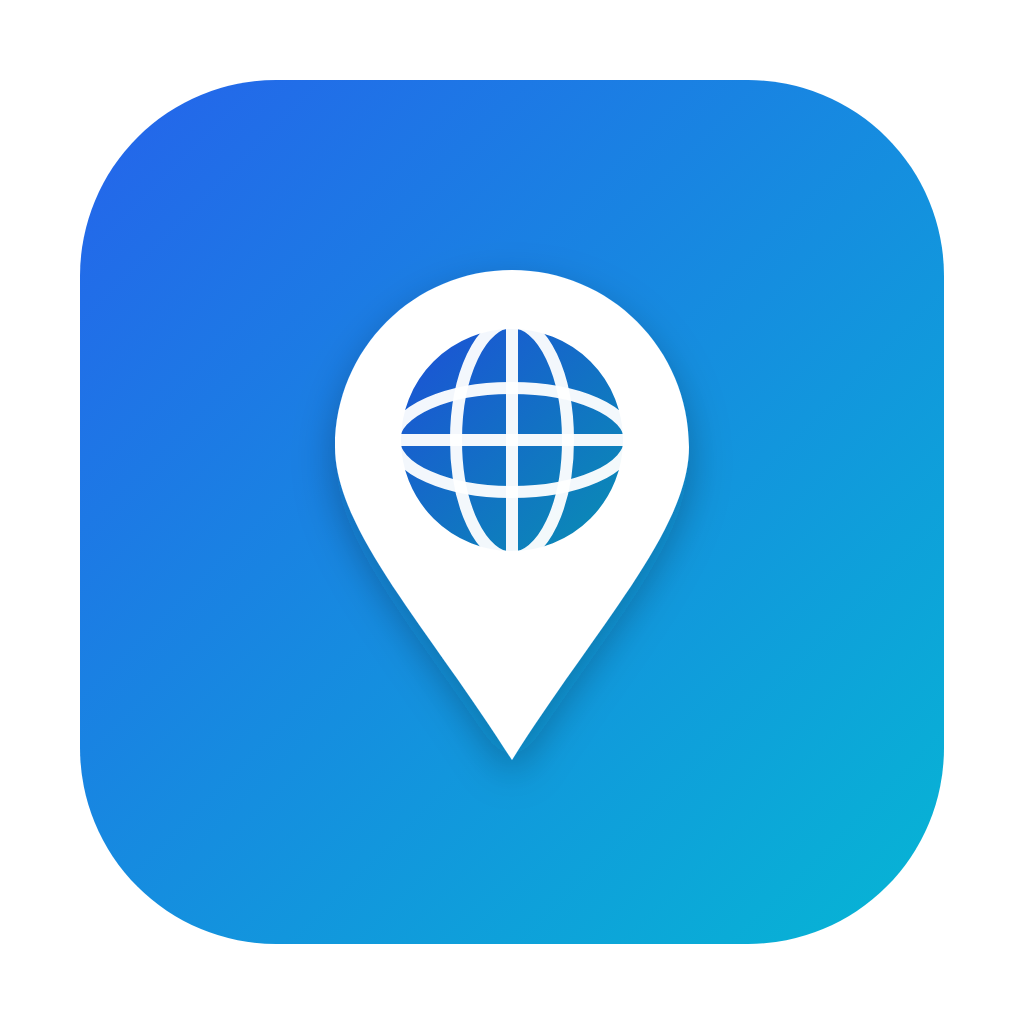
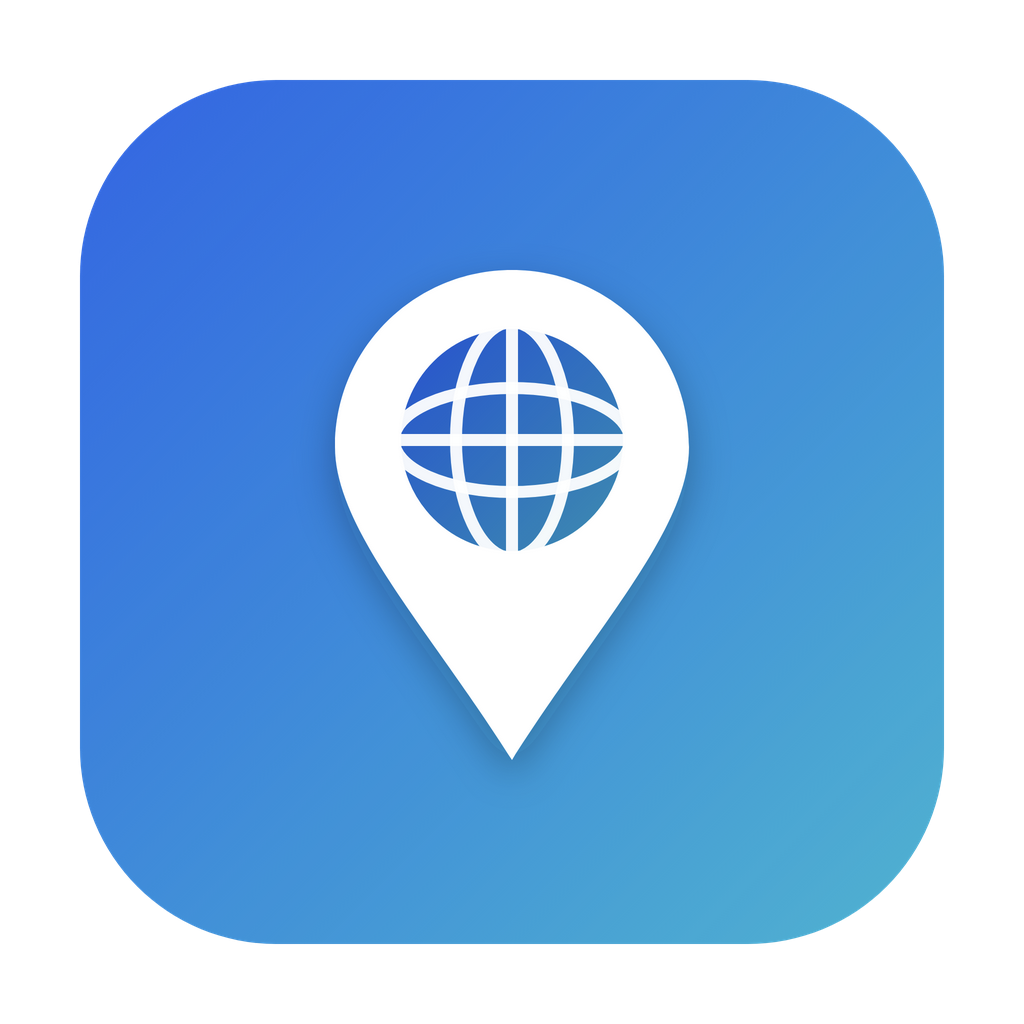
Release v1.1.4

diff --git a/render-png.js b/render-png.js
@@ -1,28 +1,85 @@
-// Rasterizes build/icon.svg to build/icon.png (1024x1024) using Electron's
-// Chromium renderer — no native image libraries required.
+// Generates the app icons and the macOS menu bar template icon.
 // Run with: npm run icons
-const { app, BrowserWindow } = require('electron');
+const { app, BrowserWindow, nativeImage } = require('electron');
 const path = require('path');
 const fs = require('fs');
+const { execFileSync } = require('child_process');
 
-const SIZE = 1024;
+const APP_SIZE = 1024;
 const buildDir = path.join(__dirname, 'build');
+const assetsDir = path.join(__dirname, 'assets');
 const svgPath = path.join(buildDir, 'icon.svg');
-const outPath = path.join(buildDir, 'icon.png');
+const appPngPath = path.join(buildDir, 'icon.png');
+const appIcnsPath = path.join(buildDir, 'icon.icns');
+
+const traySvg = `
+<svg width="36" height="36" viewBox="0 0 36 36" xmlns="http://www.w3.org/2000/svg">
+  <path fill="#000" d="M18 3.5c-6.4 0-11.6 5.1-11.6 11.5 0 5.4 5.8 11.5 11.6 19 5.8-7.5 11.6-13.6 11.6-19C29.6 8.6 24.4 3.5 18 3.5Zm0 16.8a5.3 5.3 0 1 1 0-10.6 5.3 5.3 0 0 1 0 10.6Z"/>
+</svg>`;
 
 app.disableHardwareAcceleration();
 
-app.whenReady().then(async () => {
-  const svg = fs.readFileSync(svgPath, 'utf8');
+function ensureDirs() {
+  fs.mkdirSync(buildDir, { recursive: true });
+  fs.mkdirSync(assetsDir, { recursive: true });
+}
+
+async function renderSvgToImage(win, svg, size) {
   const html =
     '<!doctype html><html><head><meta charset="utf-8"><style>' +
-    `*{margin:0;padding:0}html,body{width:${SIZE}px;height:${SIZE}px;` +
-    'background:transparent;overflow:hidden}svg{display:block}</style></head>' +
+    `*{margin:0;padding:0}html,body{width:${size}px;height:${size}px;` +
+    'background:transparent;overflow:hidden}svg{display:block;width:100%;height:100%}</style></head>' +
     `<body>${svg}</body></html>`;
 
+  win.setContentSize(size, size);
+  await win.loadURL('data:text/html;charset=utf-8,' + encodeURIComponent(html));
+  await new Promise((r) => setTimeout(r, 700));
+  const img = await win.webContents.capturePage();
+  return img.resize({ width: size, height: size });
+}
+
+function writePng(file, image) {
+  fs.writeFileSync(file, image.toPNG());
+}
+
+function createIcns(masterPng) {
+  if (process.platform !== 'darwin') {
+    console.warn('Skipping build/icon.icns: iconutil is only available on macOS.');
+    return;
+  }
+
+  const iconsetDir = path.join(buildDir, 'icon.iconset');
+  fs.rmSync(iconsetDir, { recursive: true, force: true });
+  fs.mkdirSync(iconsetDir, { recursive: true });
+
+  const master = nativeImage.createFromBuffer(masterPng);
+  const sizes = [
+    ['icon_16x16.png', 16],
+    ['[email redacted]', 32],
+    ['icon_32x32.png', 32],
+    ['[email redacted]', 64],
+    ['icon_128x128.png', 128],
+    ['[email redacted]', 256],
+    ['icon_256x256.png', 256],
+    ['[email redacted]', 512],
+    ['icon_512x512.png', 512],
+    ['[email redacted]', 1024],
+  ];
+
+  for (const [name, size] of sizes) {
+    writePng(path.join(iconsetDir, name), master.resize({ width: size, height: size }));
+  }
+
+  execFileSync('iconutil', ['-c', 'icns', iconsetDir, '-o', appIcnsPath], { stdio: 'inherit' });
+  fs.rmSync(iconsetDir, { recursive: true, force: true });
+}
+
+app.whenReady().then(async () => {
+  ensureDirs();
+
   const win = new BrowserWindow({
-    width: SIZE,
-    height: SIZE,
+    width: APP_SIZE,
+    height: APP_SIZE,
     show: false,
     frame: false,
     transparent: true,
@@ -31,19 +88,19 @@ app.whenReady().then(async () => {
     webPreferences: { backgroundThrottling: false },
   });
 
-  await win.loadURL('data:text/html;charset=utf-8,' + encodeURIComponent(html));
-  // Let Chromium paint the SVG before capturing.
-  await new Promise((r) => setTimeout(r, 700));
+  const appSvg = fs.readFileSync(svgPath, 'utf8');
+  const appImage = await renderSvgToImage(win, appSvg, APP_SIZE);
+  const appPng = appImage.toPNG();
+  fs.writeFileSync(appPngPath, appPng);
+  fs.writeFileSync(path.join(assetsDir, 'icon.png'), appPng);
 
-  const img = await win.webContents.capturePage();
-  const png = img.toPNG();
-  fs.writeFileSync(outPath, png);
+  const tray2x = await renderSvgToImage(win, traySvg, 36);
+  writePng(path.join(assetsDir, '[email redacted]'), tray2x);
+  writePng(path.join(assetsDir, 'trayTemplate.png'), tray2x.resize({ width: 18, height: 18 }));
 
-  // Keep the runtime icon (used by the window + tray) in sync.
-  const assetsDir = path.join(__dirname, 'assets');
-  fs.mkdirSync(assetsDir, { recursive: true });
-  fs.writeFileSync(path.join(assetsDir, 'icon.png'), png);
+  win.destroy();
+  createIcns(appPng);
 
-  console.log('Wrote', outPath, 'and assets/icon.png', img.getSize());
+  console.log('Wrote app icons and macOS tray template icons');
   app.quit();
 });

diff --git a/main.js b/main.js
@@ -3,6 +3,7 @@ const {
   BrowserWindow,
   ipcMain,
   Menu,
+  Notification,
   Tray,
   nativeImage,
   nativeTheme,
@@ -48,10 +49,11 @@ const TASKBAR_MAX_WIDTH = 320; // beyond this the location text ellipsizes inste
 const TASKBAR_LEFT_MARGIN = 6; // gap from the taskbar's left edge when no weather button
 const TASKBAR_GAP = 8; // gap from the weather button / system tray
 const ICON_PATH = path.join(__dirname, 'assets', 'icon.png');
+const MAC_TRAY_ICON_PATH = path.join(__dirname, 'assets', 'trayTemplate.png');
 
 // ---------- Display mode ----------
 // taskbar  -> Windows 11 (embed widget into the taskbar)
-// menubar  -> macOS (title in the menu bar + hover popover)
+// menubar  -> macOS (title in the menu bar + click notification)
 // floating -> Windows 10 and below, Linux (original desktop card)
 function detectMode() {
   if (process.platform === 'darwin') return 'menubar';
@@ -81,7 +83,9 @@ const STRINGS = {
     trayFieldIsp: '菜单栏显示运营商',
     tooltip: 'IPWindow',
     ipLoading: '获取中…',
+    labelIp: 'IP',
     labelLoc: '位置',
+    labelIsp: '运营商',
     closeTitle: '退出',
     unknownLoc: '未知位置',
     updatePrefix: '更新 ',
@@ -98,7 +102,9 @@ const STRINGS = {
     trayFieldIsp: 'Menu bar: ISP',
     tooltip: 'IPWindow',
     ipLoading: 'Loading…',
+    labelIp: 'IP',
     labelLoc: 'Location',
+    labelIsp: 'ISP',
     closeTitle: 'Quit',
     unknownLoc: 'Unknown location',
     updatePrefix: 'Updated ',
@@ -110,11 +116,13 @@ const STRINGS = {
 let t = STRINGS.en; // resolved in app.whenReady once the locale is available.
 
 let win = null; // primary window: floating card or taskbar overlay widget
-let popover = null; // hover detail popover (taskbar + menubar modes)
+let popover = null; // hover detail popover (Windows taskbar mode)
 let tray = null;
 let refreshTimer = null;
 let popoverHideTimer = null;
 let lastInfo = null; // most recent successful lookup
+let detailNotification = null;
+let detailNotificationTimer = null;
 
 // ---------- Taskbar overlay state (Windows 11) ----------
 let taskbarHwnd = null; // BigInt HWND of our overlay window
@@ -618,6 +626,50 @@ function updateTrayTitle() {
   tray.setTitle(' ' + (text || ''));
 }
 
+function closeDetailNotification() {
+  if (detailNotificationTimer) {
+    clearTimeout(detailNotificationTimer);
+    detailNotificationTimer = null;
+  }
+  if (detailNotification) {
+    detailNotification.close();
+    detailNotification = null;
+  }
+}
+
+function detailNotificationBody() {
+  if (!lastInfo) return t.ipLoading;
+  const lines = [
+    `${t.labelIp}: ${lastInfo.ip}`,
+    `${t.labelLoc}: ${lastInfo.location || t.unknownLoc}`,
+  ];
+  if (lastInfo.isp) lines.push(`${t.labelIsp}: ${lastInfo.isp}`);
+  if (lastInfo.time) lines.push(`${t.updatePrefix}${new Date(lastInfo.time).toLocaleTimeString()}`);
+  return lines.join('\n');
+}
+
+async function showTrayDetailNotification() {
+  if (mode !== 'menubar' || !Notification.isSupported()) return;
+  if (!lastInfo) await refreshAndSend();
+  closeDetailNotification();
+  detailNotification = new Notification({
+    title: t.tooltip,
+    body: detailNotificationBody(),
+    silent: true,
+  });
+  const notification = detailNotification;
+  detailNotification.on('close', () => {
+    if (detailNotification !== notification) return;
+    detailNotification = null;
+    if (detailNotificationTimer) {
+      clearTimeout(detailNotificationTimer);
+      detailNotificationTimer = null;
+    }
+  });
+  detailNotification.show();
+  detailNotificationTimer = setTimeout(closeDetailNotification, 6000);
+}
+
 function buildTrayMenu(showWindow) {
   const items = [];
   if (mode === 'floating') items.push({ label: t.trayShow, click: showWindow });
@@ -628,7 +680,7 @@ function buildTrayMenu(showWindow) {
       config.menubarField = f;
       saveConfig(config);
       updateTrayTitle();
-      tray.setContextMenu(buildTrayMenu(showWindow));
+      if (mode !== 'menubar') tray.setContextMenu(buildTrayMenu(showWindow));
     };
     items.push({ type: 'separator' });
     items.push({
@@ -656,10 +708,11 @@ function buildTrayMenu(showWindow) {
 }
 
 function createTray() {
-  let icon = nativeImage.createFromPath(ICON_PATH);
+  const iconPath = mode === 'menubar' ? MAC_TRAY_ICON_PATH : ICON_PATH;
+  let icon = nativeImage.createFromPath(iconPath);
   if (!icon.isEmpty()) {
     // Tray icons are tiny; scale the master image down so it renders crisply.
-    icon = icon.resize({ width: 32, height: 32 });
+    icon = icon.resize({ width: mode === 'menubar' ? 18 : 32, height: mode === 'menubar' ? 18 : 32 });
     if (mode === 'menubar') icon.setTemplateImage(true);
   }
   try {
@@ -676,15 +729,21 @@ function createTray() {
 
   if (mode === 'menubar') {
     updateTrayTitle();
-    // macOS-only tray hover events drive the detail popover.
-    tray.on('mouse-enter', showPopover);
-    tray.on('mouse-leave', hidePopover);
+    tray.setIgnoreDoubleClickEvents(true);
+    tray.on('click', (event) => {
+      if (event && event.ctrlKey) {
+        tray.popUpContextMenu(buildTrayMenu(showWindow));
+      } else {
+        showTrayDetailNotification();
+      }
+    });
+    tray.on('right-click', () => tray.popUpContextMenu(buildTrayMenu(showWindow)));
   } else {
     // Double-clicking the tray icon also brings the widget back.
     tray.on('double-click', showWindow);
   }
   tray.setToolTip(t.tooltip);
-  tray.setContextMenu(buildTrayMenu(showWindow));
+  tray.setContextMenu(mode === 'menubar' ? null : buildTrayMenu(showWindow));
 }
 
 // ---------- IPC ----------
@@ -706,12 +765,11 @@ app.whenReady().then(() => {
   if (mode === 'taskbar') {
     createTaskbarWindow();
     createPopover();
-  } else if (mode === 'menubar') {
-    createPopover();
   } else {
     createFloatingWindow();
   }
   createTray();
+  if (mode === 'menubar') refreshAndSend();
 
   // Keep the embedded taskbar widget legible when the OS theme flips.
   nativeTheme.on('updated', () => {
@@ -744,6 +802,7 @@ app.on('before-quit', () => {
   if (netWatchTimer) clearInterval(netWatchTimer);
   if (netChangeDebounce) clearTimeout(netChangeDebounce);
   if (taskbarTimer) clearInterval(taskbarTimer);
+  closeDetailNotification();
   clearDragTimers();
   if (reassertTimer) clearTimeout(reassertTimer);
   if (taskbarWin) taskbarWin.stopForegroundWatch();